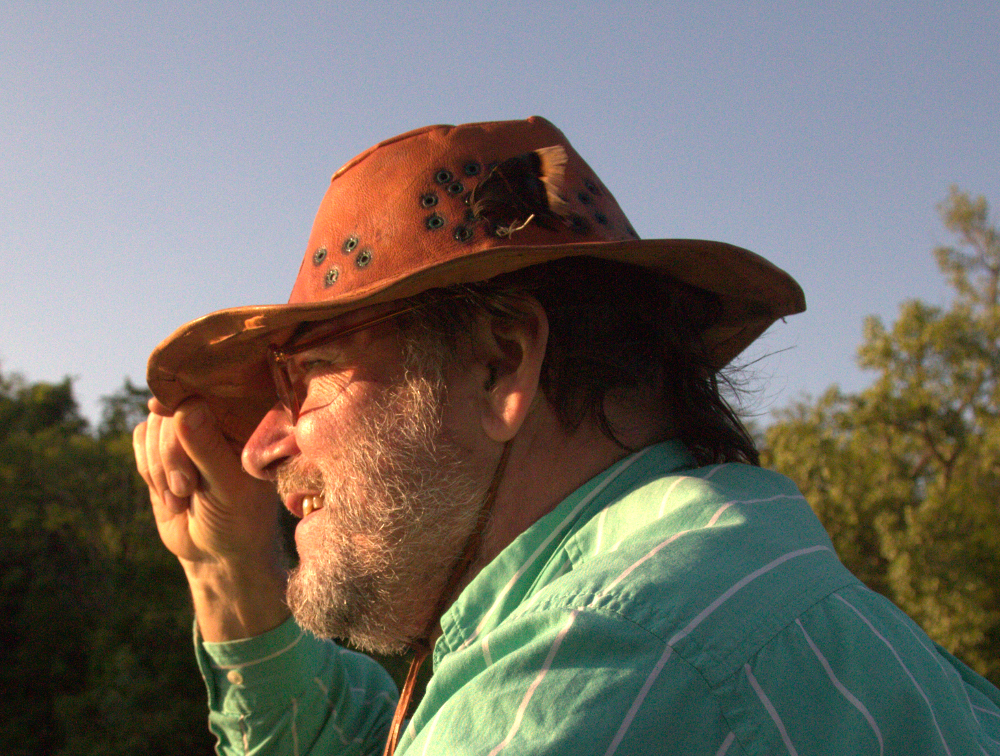
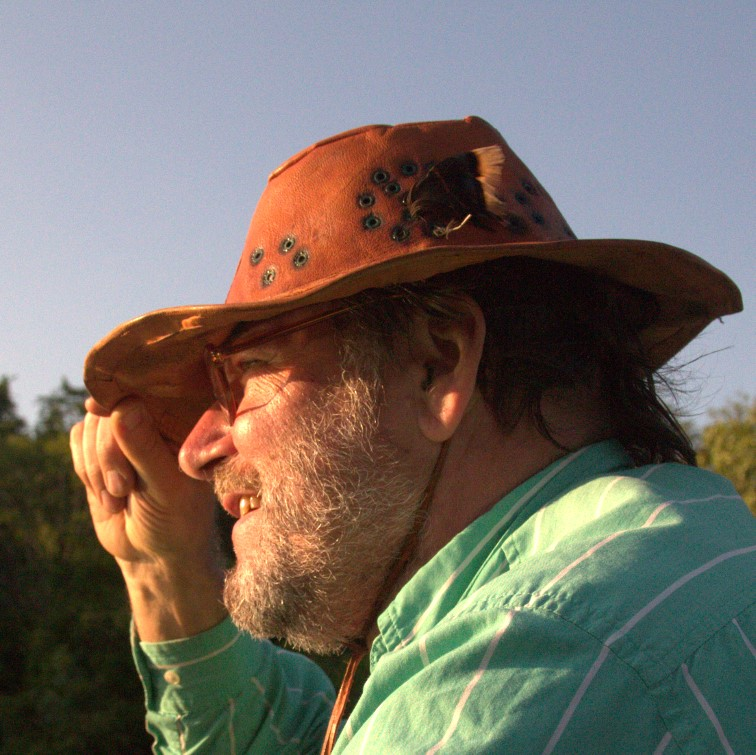
added doug photo

diff --git a/src/content/people/doug-rosman.md b/src/content/people/doug-rosman.md
@@ -1,6 +1,7 @@
 ---
 name: 'Doug Rosman'
 cardBlurb: 'Doug Rosman (b. Santa Monica, 1991) is an artist and programmer working at the intersection of art and technology. He received his Bachelor of Arts in the Interdisciplinary Computing in the Arts Major at the University of California, San Diego in 2014, and his Master of Fine Arts in Art and Technology Studies from the School of the Art Institute of Chicago in 2019.'
+image: '/src/content/people/images/doug-rosman.jpg'
 social:
     display: 'thedougrosmanstory'
     url: ''
